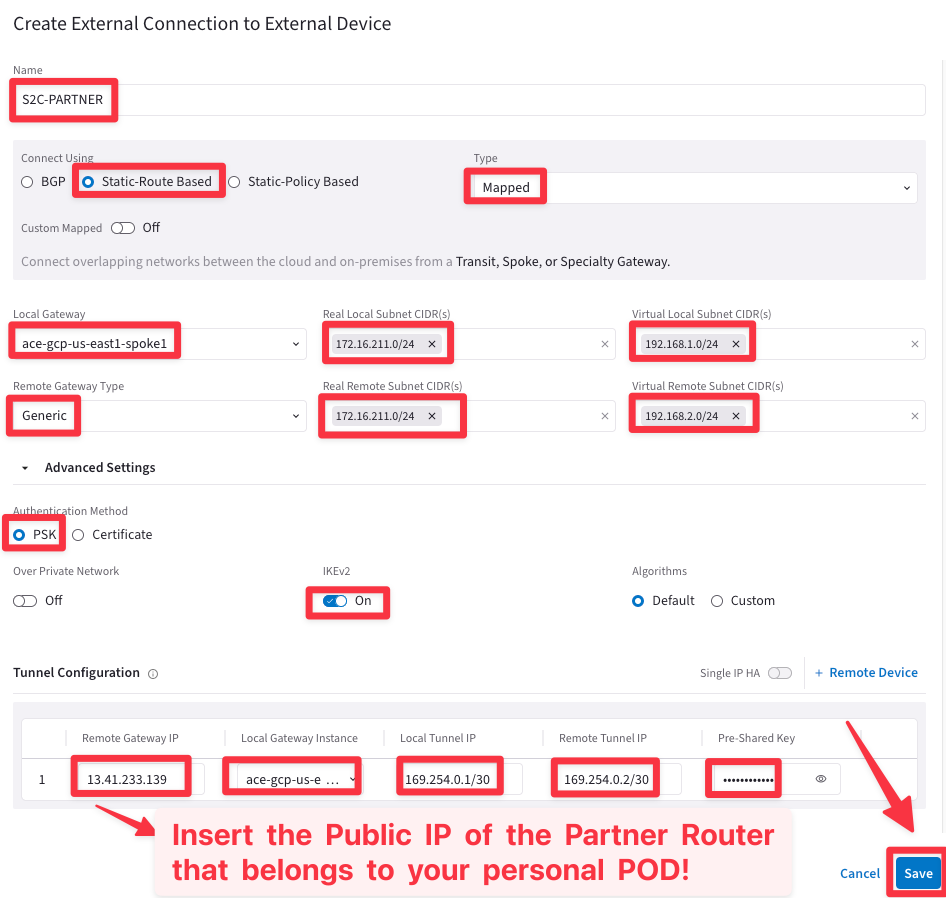
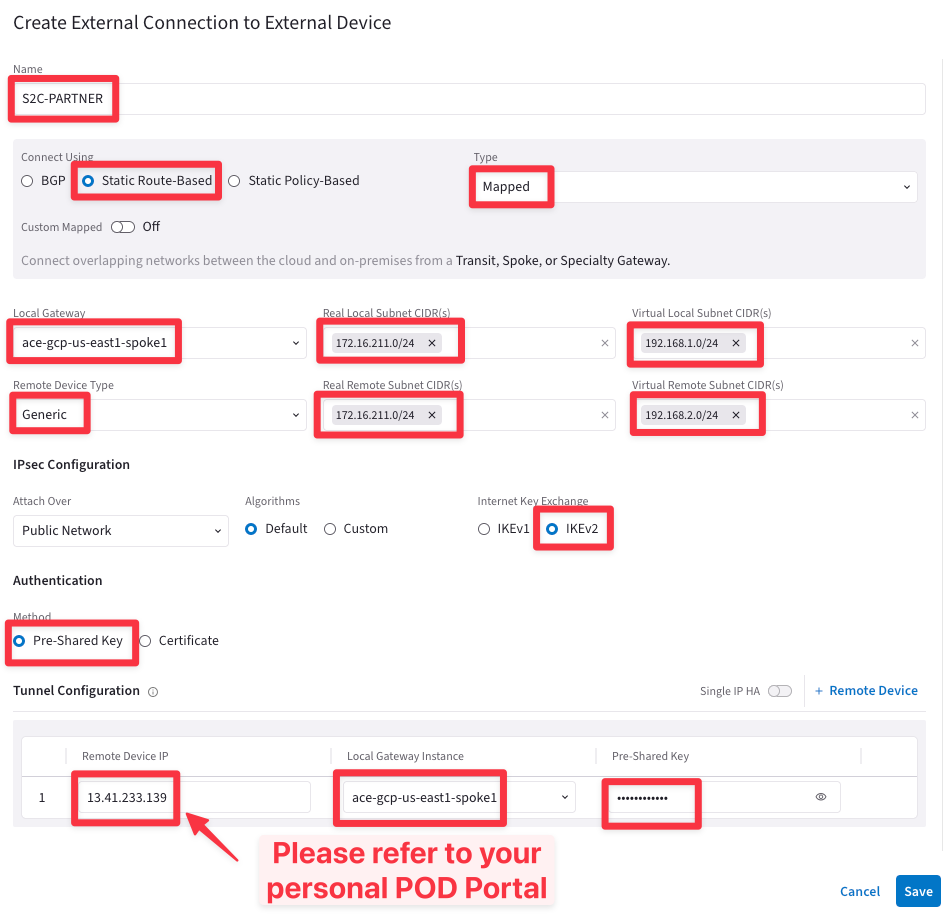
update for ops

diff --git a/ace_ops/docs/lab6.md b/ace_ops/docs/lab6.md
@@ -49,14 +49,14 @@ align: center
 Communicate your POD number
 ```
 
-Go to **CoPilot > Cloud Fabric > Gateways > Transit Gateways >** select the *ace-aws-eu-west-1-transit1* GW **> Approval**
+Navigate to **CoPilot > Cloud Fabric > Gateways > Transit Gateways >** select the *ace-aws-eu-west-1-transit1* GW **> Approval**
 
 ```{note}
-Wait for approximately **one minute** for BGP in order to send the Update. Then click on the <span style='color:orange'>**refresh button**</span> to see a <ins>default route</ins> being advertised from the DC.
+Please wait approximately **one minute** for BGP to send the Update. Then, click the <span style='color:orange'>**refresh button**</span> to see the default route being advertised from the Data Center.
 
-This route will remain in <ins>**pending state**</ins> and it will be not advertised within the MCNA untill it gets the final approval from the Aviatrix Administrator.
+This route will remain in a <ins>**pending state**</ins> and will not be advertised within the CNSF until it receives final approval from the *Aviatrix Administrator*.
 
-**Do not approve it**! If you accidentally approve it, you can click on **Remove** and store it back on the Pending status.
+**Important**: Do not approve the route yourself. If you accidentally approve it, you can click "Remove" to revert it back to the Pending status.
 ```
 
 ```{figure} images/lab6-pending.png
@@ -68,17 +68,16 @@ Refresh
 ```
 
 ```{important}
-You have successfully prevented that somebody from the DC could jeopardize the whole network inside the multicloud infrastructure! 
+You have successfully prevented someone from the Data Center from jeopardizing the entire network within the multicloud infrastructure.
 
-<ins>Once again do not approve that default route</ins>!
+<ins>Once again, please do not approve that default route</ins>!
 ```
 
 ## 3. SCENARIO#2
 
-ACE’s OnPrem Partner needs to be connected to the MCNA in the GCP region, however, it has overlapping IP’s with BU1’s Analytics VPC.
+ACE’s On-Premises Partner needs to be connected to the Aviatrix CNSF in the GCP region. However, there is an IP overlap with BU1’s Analytics VPC.
 
-You have been engaged for creating a <span style='color:#FF00FF'>**Site2Cloud**</span>
- connection between the GCP Spoke GW and the OnPrem Partner router and also for resolving the IP conflict through the **Mapped NAT** feature.
+You have been engaged to establish a <span style='color:#FF00FF'>**Site2Cloud**</span> connection between the GCP Spoke Gateway and the On-Premises Partner router, as well as to resolve the IP conflict using the **Mapped NAT** feature.
 
 ```{figure} images/lab6-topology2.png
 ---
@@ -93,7 +92,7 @@ Lab 6 Scenario#2: Topology
 - Create a new **S2C** connection.
 
 ```{tip}
-Go to **CoPilot > Networking >  Connectivity > External Connection (S2C) >** then click on the  `"+External Connection"` button, then select `"External Device"`.
+Navigate to **CoPilot > Networking >  Connectivity > External Connection (S2C) >** then click on the  `"+External Connection"` button, then select `"External Device"`.
 ```
 
 ```{figure} images/lab6-s2c.png
@@ -112,7 +111,7 @@ align: center
 External Device
 ```
 
-Configure the new S2C connection based on the schema below.
+Configure the new Site-to-Cloud (S2C) connection according to the schema below:
 
 - **Name**: <span style='color:#479608'>S2C-PARTNER</span>
 
@@ -131,11 +130,11 @@ Configure the new S2C connection based on the schema below.
 
 - **Virtual Remote Subnet CIDR(s)**: <span style='color:#479608'>192.168.2.0/24</span>
 
-- **Authentication Method**: <span style='color:#479608'>PSK</span>
+- **Authentication Method**: <span style='color:#479608'>Pre-Shared Key</span>
 
 - **IKEv2**: <span style='color:#479608'>ON</span>
 
-- **Remote Gateway IP**:  <span style='color:tomato'>follow the Note below</span>
+- **Remote Gateway IP**:  <span style='color:tomato'>please refer to the Note below</span>
 
 ```{note}
 Use the “**dig partner-csr-public.pod#.aviatrixlab.com +short**” command <ins>from your personal laptop terminal</ins> to resolve the symbolic public name of the OnPrem-Partner CSR router and retrieve the <ins>REMOTE GATEWAY PUBLIC IP address</ins>, as depicted in the example below.
@@ -165,8 +164,6 @@ Nslookup
 ```
 
   - **Local Gateway Instance**: <span style='color:#479608'>ace-gcp-us-east1-spoke1</span>
-  -  **Local Tunnel IP**: <span style='color:#479608'>169.254.0.1/30</span>
-  -  **Remote Tunnel IP**: <span style='color:#479608'>169.254.0.2/30</span>
   -  **Pre-Shared Key**: <span style='color:#479608'>Aviatrix123#</span>
 
 ```{important}
@@ -180,7 +177,7 @@ align: center
 External Connection Configuration
 ```
 
-Please wait a few seconds for the completion of the S2C. The new connection will appear as down (indicated by a red arrow symbol).
+Please wait a few seconds for the completion of the S2C. The new connection will appear as "Down", indicated by a red arrow symbol.
 
 ```{figure} images/lab6-notdone.png
 ---
@@ -212,7 +209,10 @@ align: center
 Cisco Router
 ```
 
-After successfully logging into the On-Prem Partner router (also known as the _CSR router_), run the following command to verify that the tunnel is operational:
+Certainly! Here's a polished version of your phrase:
+
+
+After successfully logging into the On-Premises Partner router (also known as the _CSR router_), execute the following command to verify that the tunnel is active:
 
 ```bash
 show ip int brief
@@ -241,11 +241,11 @@ Ping is ok
 - Launch the `Active Sessions`.
 
 ```{tip}
-Go to **CoPilot > Diagnostics > Diagnostics Tools > Gateway Diagnostics**, select the **_ace-gcp-us-east1-spoke1_** GW and then select the **Active Sessions** tool.
+Navigate to **CoPilot > Diagnostics > Diagnostics Tools > Gateway Diagnostics**, select the **_ace-gcp-us-east1-spoke1_** GW and then select the **Active Sessions** tool.
 
 Click on **Run** and almost simultaneously issue once again the ping command from the CSR router.
 
-Filter based on the `"icmp"` keyword.
+Filter the results using the `"icmp"` keyword.
 ```
 
 ```{figure} images/lab6-final.png

diff --git a/ace_ops/docs/lab7.md b/ace_ops/docs/lab7.md
@@ -8,7 +8,7 @@ The BU2 database requires updates; however, the VM resides within a private subn
 
 Additionally, all egress traffic must be monitored, with **_Logging_** enabled to track the activity.
 
-Please activate the `Egress` feature on the **_ace-azure-east-us-spoke2_** VNet, similar to the setup on **_ace-azure-east-us-spoke1_**, but do so temporarily as a test in a separate Test VNet.
+Please activate the `Cloud Secure Egress` feature on the **_ace-azure-east-us-spoke2_** VNet, similar to the setup on **_ace-azure-east-us-spoke1_**, but do so temporarily as a test in a separate Test VNet.
 
 Furthermore, you are requested to create the DCF rules that will enforce these requirements.
 
@@ -25,7 +25,7 @@ Lab 7 Scenario Topology
 - Enable the Egress on the VNet where the BU2 DB resides.
 
 ```{tip}
-Go to **CoPilot > Security > Egress > Egress VPC/VNets** and then click on the `"Enable Local Egress on VPC/VNets"` button.
+Navigate to **CoPilot > Security > Egress > Egress VPC/VNets** and then click on the `"Enable Local Egress on VPC/VNets"` button.
 
 Select the **_ace-azure-east-us-spoke2_** VPC.
 
@@ -42,7 +42,7 @@ ace-azure-east-us-spoke2
 ```{important}
 This action will install a `Default Route` in all the Private Routing Tables inside the Azure Spoke2 VNet. The Defautl Routes will point to the **_ace-azure-east-us-spoke2_** GW.
 
-Go to **CoPilot > Cloud Fabric > Gateways > Spoke Gateways** and select the **_ace-azure-east-us-spoke2_** Gateway, then click on the `VPC/VNet Route Tables` tab and select any **Private** Routing Tables from the `Route Table` field!
+Navigate to **CoPilot > Cloud Fabric > Gateways > Spoke Gateways** and select the **_ace-azure-east-us-spoke2_** Gateway, then click on the `VPC/VNet Route Tables` tab and select any **Private** Routing Tables from the `Route Table` field!
 
 ```{figure} images/lab7-defaultroute.png
 ---
@@ -54,7 +54,7 @@ Default Route injected by the AVX Controller
 - Enable the **Distributed Cloud Firewall** feature.
 
 ```{tip}
-Go to **CoPilot > Security > Distributed Cloud Firewall** and then click on the `"Enable Distributed Cloud Firewall"` button, then to the subsequent `"Begin Using Distributed Cloud Firewall"` button, and last but not least to the `"Begin"` button
+Navigate to **CoPilot > Security > Distributed Cloud Firewall** and then click on the `"Enable Distributed Cloud Firewall"` button, then to the subsequent `"Begin Using Distributed Cloud Firewall"` button, and last but not least to the `"Begin"` button
 ```
 
 ```{figure} images/lab7-enabledcf01.png
@@ -75,22 +75,22 @@ Begin using DCF message
 ---
 align: center
 ---
-Greenfield Rule message
+Begin
 ```
 
-You will immediately notice a pop-up message, informing you that the `Greenfield Rule` will be created for allowing all kind of traffic.
+You will immediately notice that the Aviatrix Controller has applied a `Greenfield-Rule`, permitting all types of traffic.
 
 ```{figure} images/lab7-enabledcf04.png
 ---
 align: center
 ---
-Default Rules
+Default Rule
 ```
 
 - Enable the `"Logging"` on the Greenfield-Rule.
 
 ```{tip}
-Click on the pencil icon on the right-hand side of the entry **Greenfield-Rule**.
+Click on the Actions icon to the right of the**Greenfield-Rule** entry, and enable Logging.
 ```
 
 ```{figure} images/lab7-editgreen.png
@@ -101,14 +101,7 @@ align: center
 Edit the Greenfield-Rule
 ```
 
-```{figure} images/lab7-enablelog.png
----
-align: center
----
-Enable Logging
-```
-
-Do not forget to click on **Save In Drafts** and then click on **Commit**, to push the change into the Data Plane.
+Remember to click on **Commit** to apply the changes to the Data Plane.
 
 ```{figure} images/lab7-lastone.png
 ---
